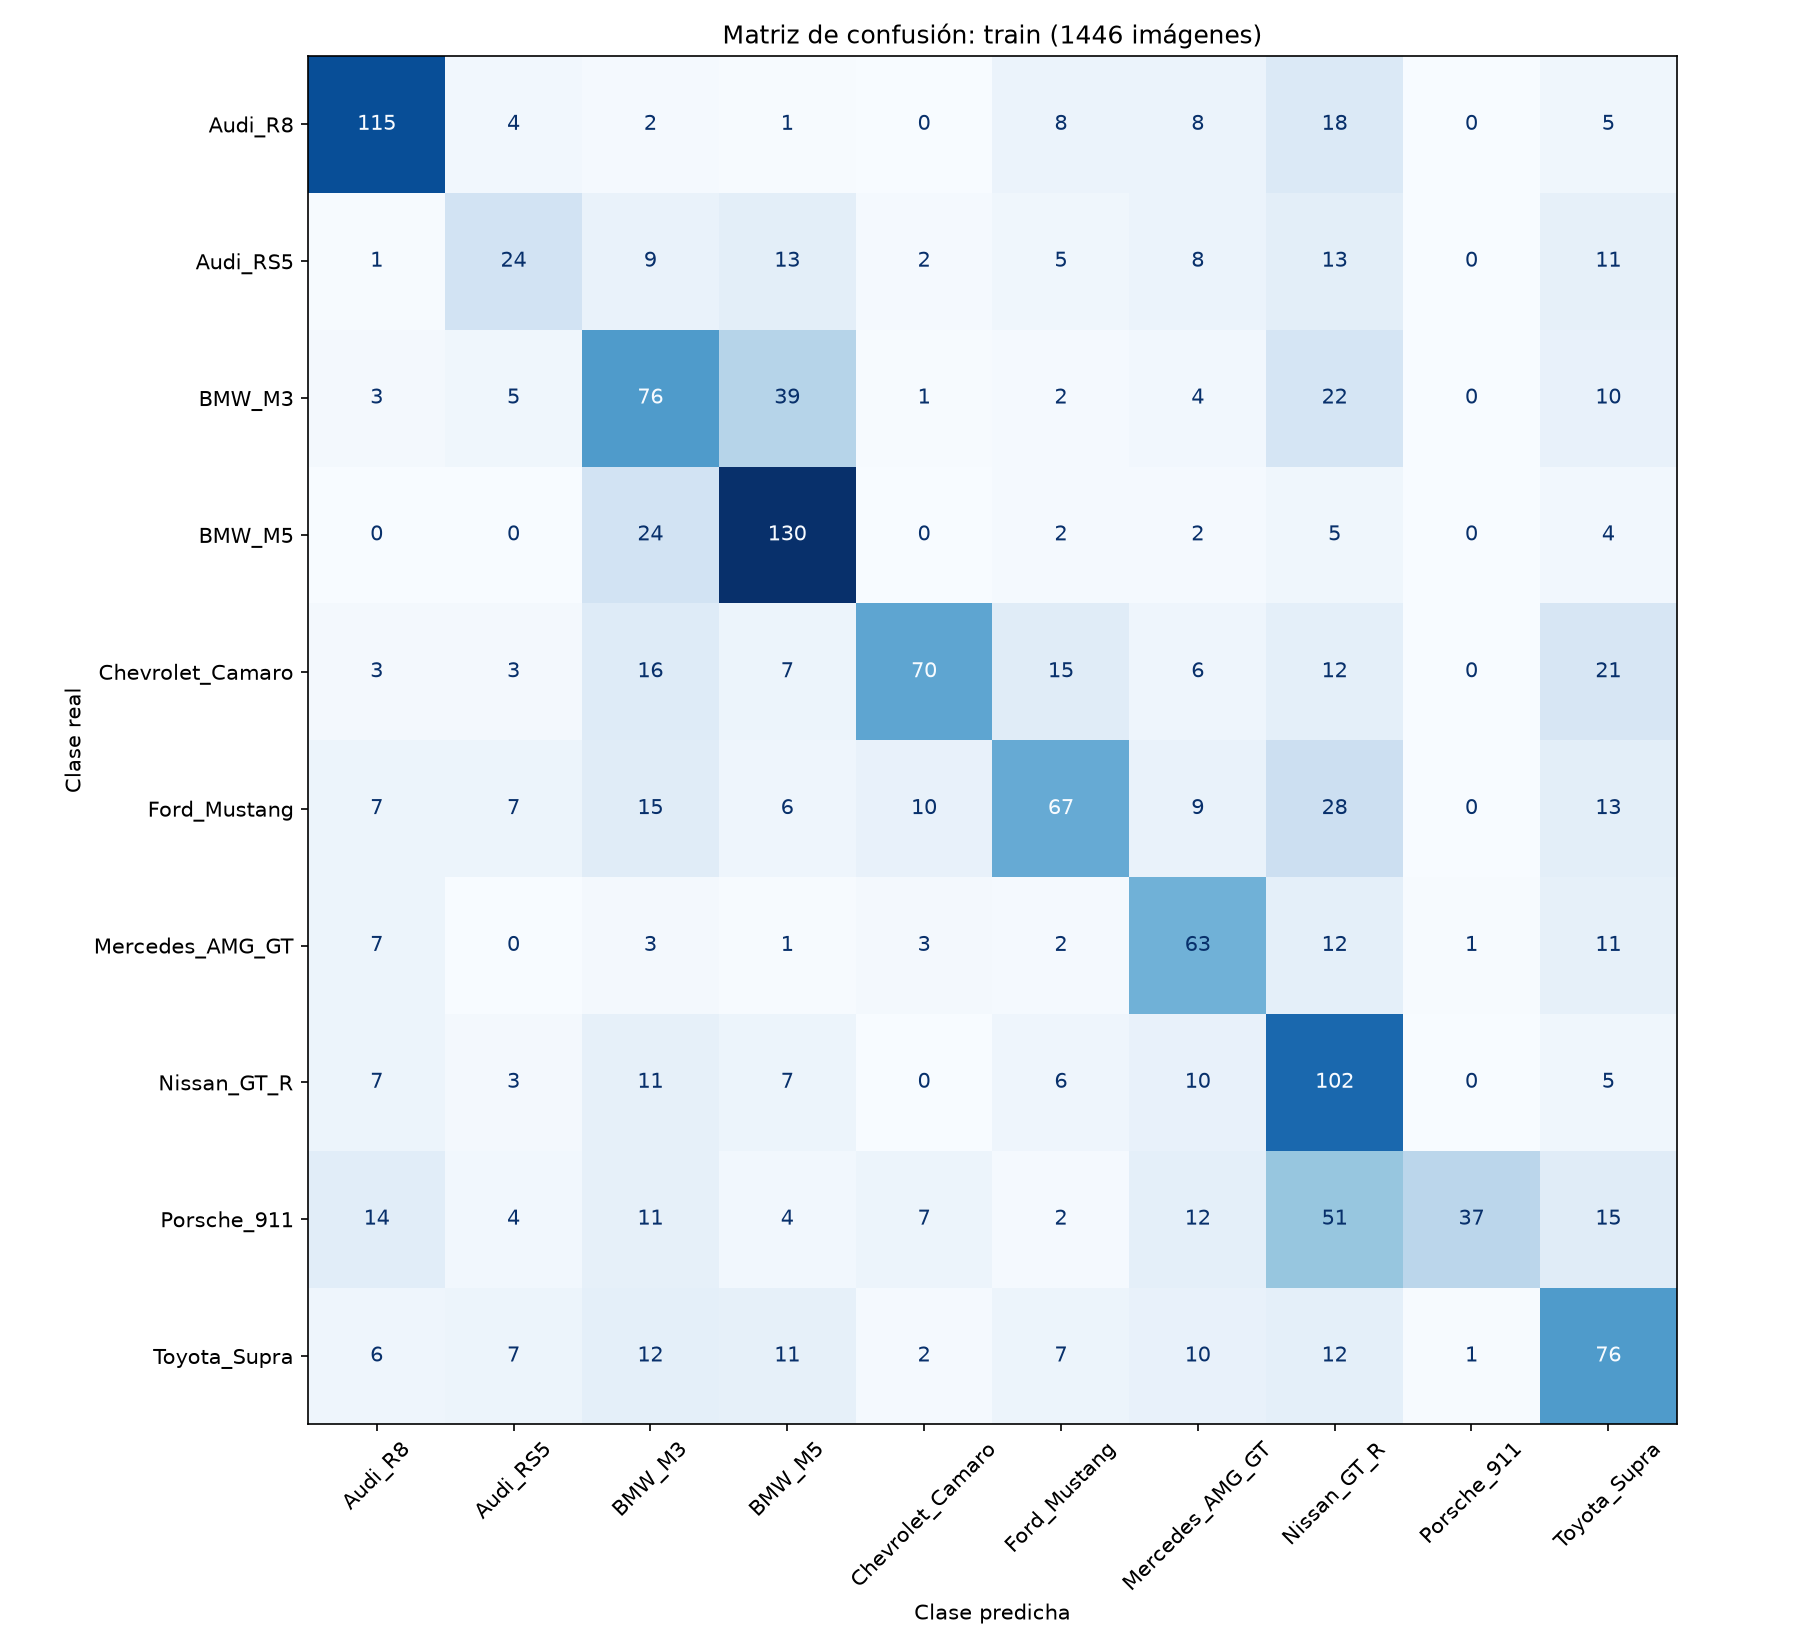
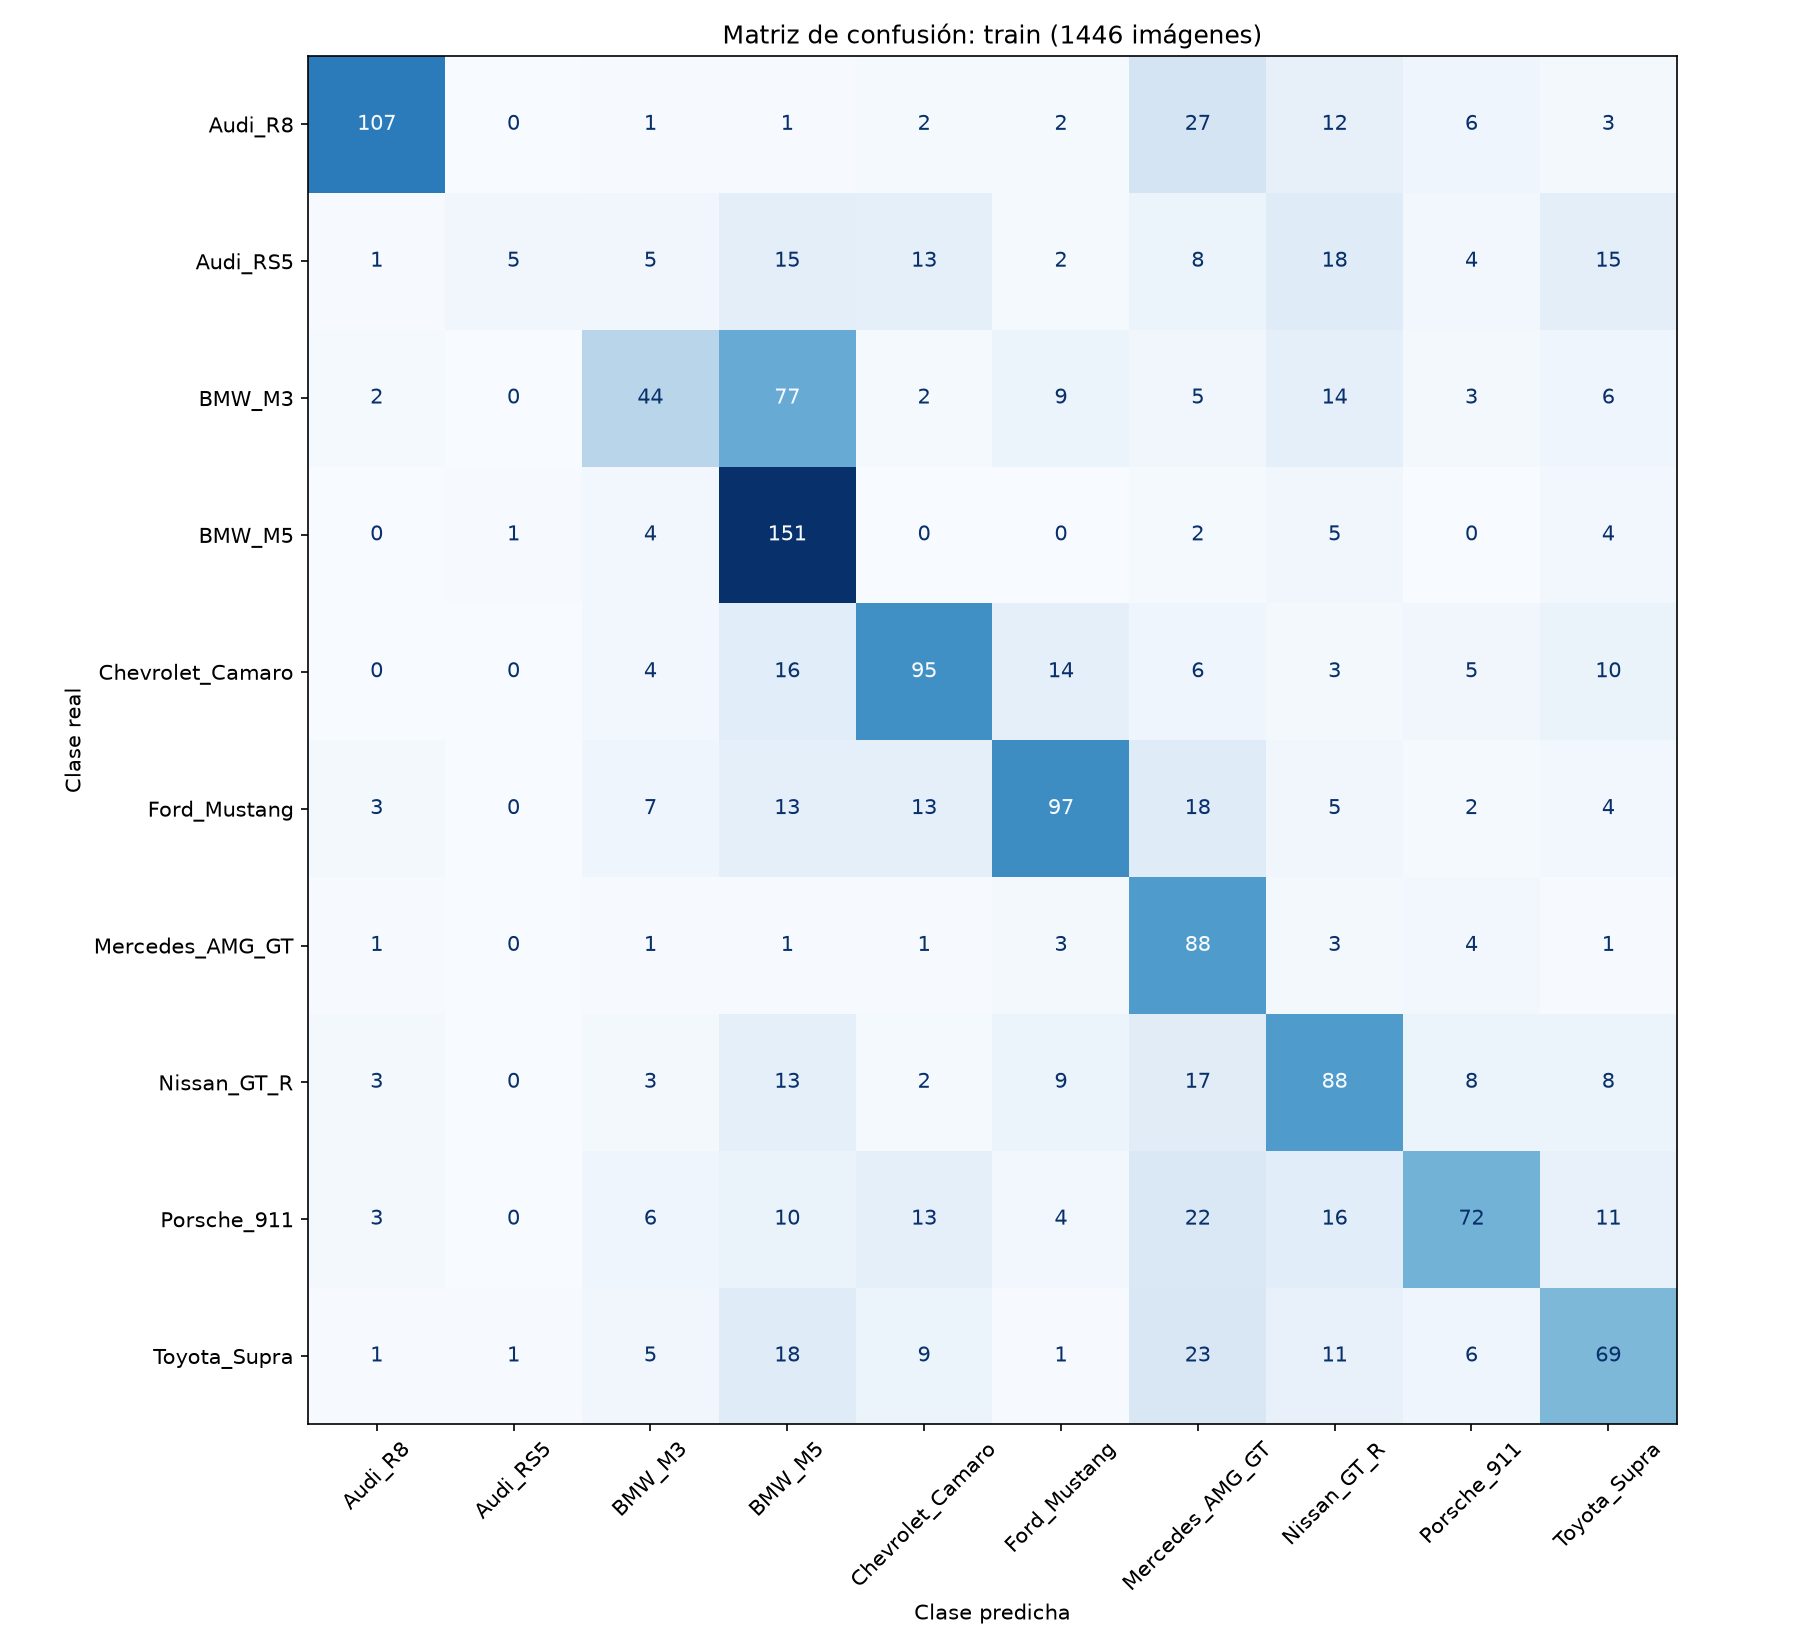
update: ajusta taza de dropout a 0.5

Changed region(s): [[0.4667, 0.34, 0.9333, 0.8655], [0.1556, 0.0309, 0.4978, 0.3709]]

diff --git a/src/models/cnn_v2.py b/src/models/cnn_v2.py
@@ -16,11 +16,10 @@ from models.cnn_v1 import (
 
 OUTPUT_DIR = ROOT / "public" / "images" / "cnn_v2"
 
-
 def train_model_v2(input_dir=INPUT_DIR, sets_dir=SETS_DIR, output_dir=OUTPUT_DIR,
                 epochs=EPOCHS, batch_size=BATCH_SIZE, seed=SEED):
     """
-    Reutiliza los datos, entrenamiento y reportes con Dropout(0.3), deteniendo
+    Reutiliza los datos, entrenamiento y reportes con Dropout(0.5), deteniendo
     el entrenamiento según el F1 macro de validación.
     
     Args:
@@ -47,10 +46,9 @@ def train_model_v2(input_dir=INPUT_DIR, sets_dir=SETS_DIR, output_dir=OUTPUT_DIR
         epochs=epochs, 
         batch_size=batch_size, 
         seed=seed,
-        dropout_rate=0.3,
+        dropout_rate=0.5,
         model_name="cnn_v2",
     )
-
 
 if __name__ == "__main__":
     train_model_v2()

diff --git a/src/main.py b/src/main.py
@@ -36,7 +36,7 @@ def main():
 # ------------------------------------------------------------------------------
 # Entrenamiento y evaluación de la CNN
 # ------------------------------------------------------------------------------
-    train_model_v1()
+    train_model_v2()
 
 if __name__ == "__main__":
     main()
